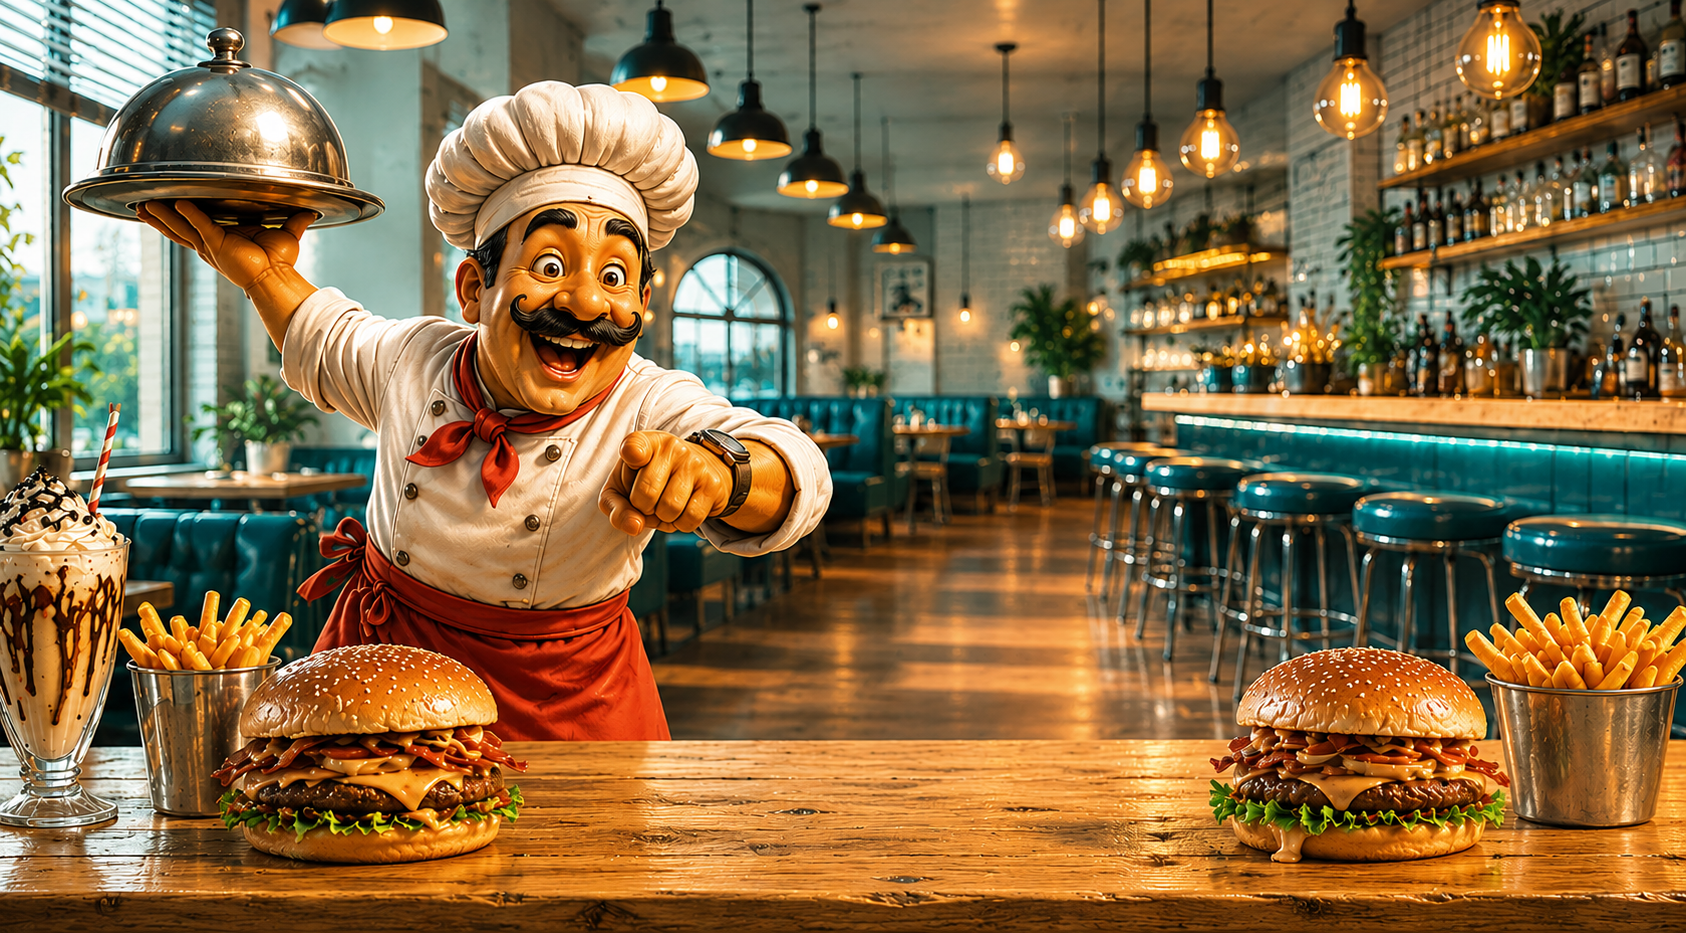
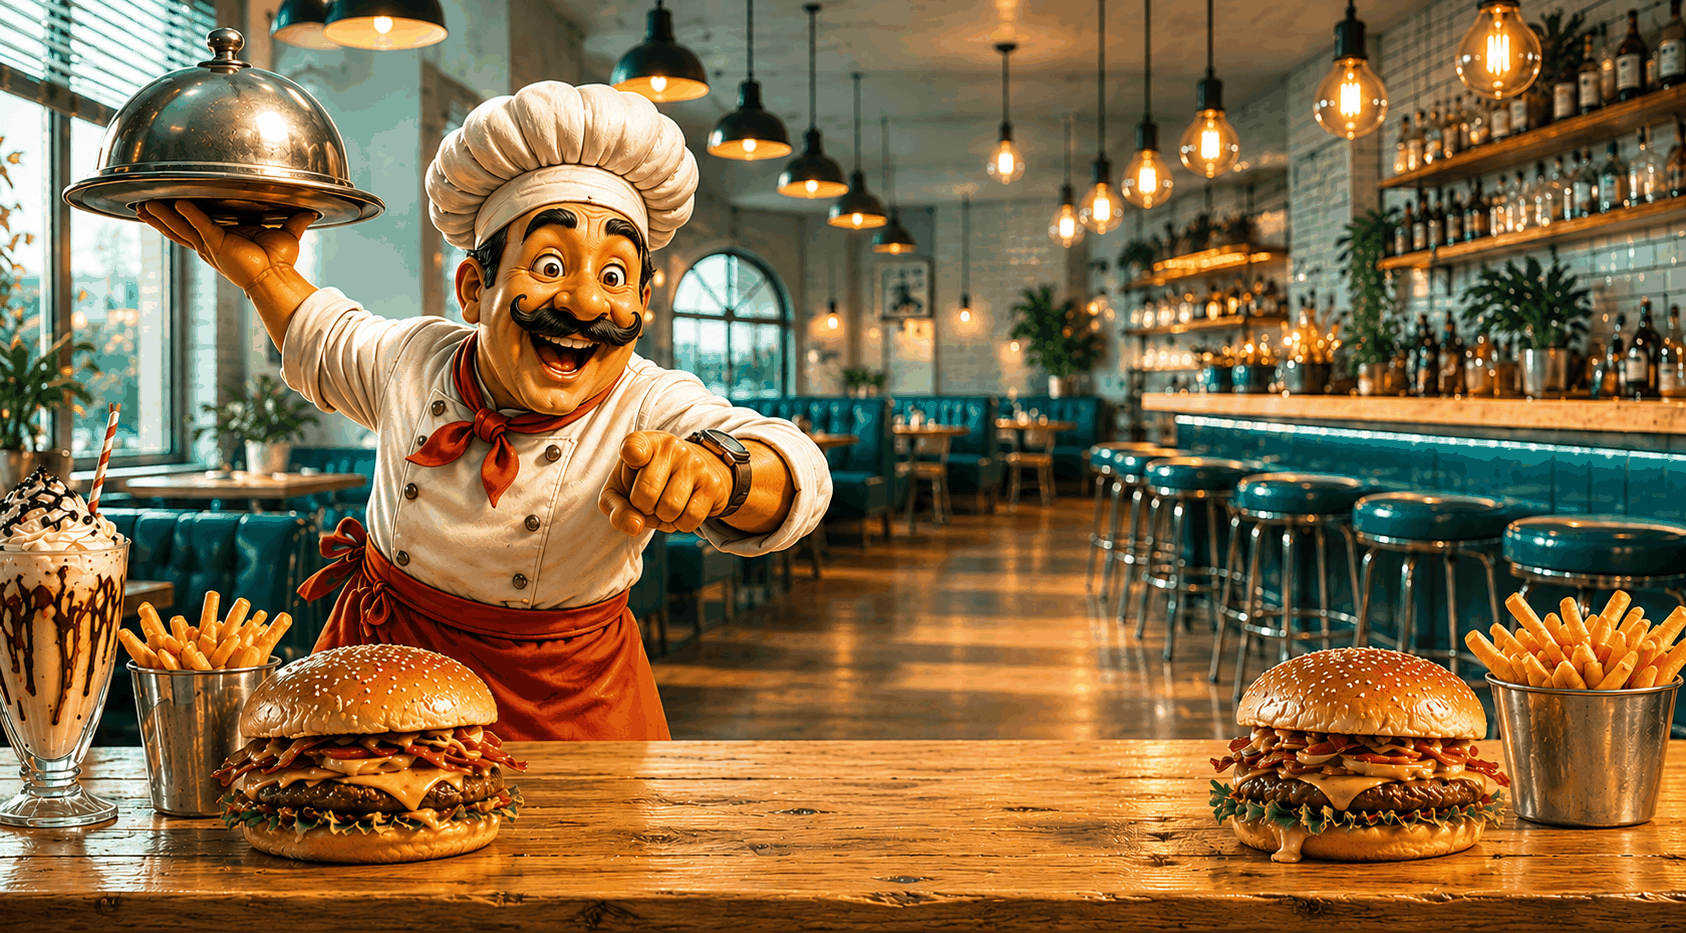
2

diff --git a/src/components/home/HeroSection.tsx b/src/components/home/HeroSection.tsx
@@ -143,7 +143,7 @@ export default function HeroSection({ contentVisible = true }: { contentVisible?
             variants={scaleIn}
             className="neon-panel relative rounded-[30px] border border-white/80 shadow-[0_20px_44px_rgba(109,71,30,0.14)] dark:border-white/20"
           >
-            <div className="absolute inset-0 rounded-[30px] bg-[url('/fond3.png')] bg-cover bg-center" aria-hidden="true" />
+            <div className="absolute inset-0 rounded-[30px] bg-[url('/chefbg.png')] bg-cover bg-center" aria-hidden="true" />
             <div className="absolute inset-0 rounded-[30px] bg-[linear-gradient(180deg,rgba(255,248,241,0.72)_0%,rgba(255,245,234,0.86)_35%,rgba(255,244,234,0.94)_100%)] dark:bg-[linear-gradient(180deg,rgba(8,13,24,0.50)_0%,rgba(7,11,20,0.76)_42%,rgba(5,8,14,0.94)_100%)]" />
             <div className="absolute inset-0 rounded-[30px] bg-[radial-gradient(circle_at_50%_24%,rgba(255,255,255,0.82),transparent_38%)] dark:bg-[radial-gradient(circle_at_18%_10%,rgba(255,122,24,0.30),transparent_38%),radial-gradient(circle_at_88%_24%,rgba(34,211,238,0.18),transparent_34%)]" />
 
@@ -235,7 +235,7 @@ export default function HeroSection({ contentVisible = true }: { contentVisible?
 
       <section ref={heroRef} className="relative hidden min-h-[calc(100dvh-116px)] flex-col overflow-hidden md:flex">
         <motion.div
-          className="absolute inset-0 bg-[url('/fond3.png')] bg-cover bg-no-repeat bg-center will-change-transform"
+          className="absolute inset-0 bg-[url('/chefbg.png')] bg-cover bg-no-repeat bg-center will-change-transform"
           style={{ transform: "translateY(calc(var(--scroll-y, 0px) * 0.3)) scale(1.05)" }}
           initial={{ opacity: 0, scale: 1.12 }}
           animate={{ opacity: 1, scale: 1.05 }}
